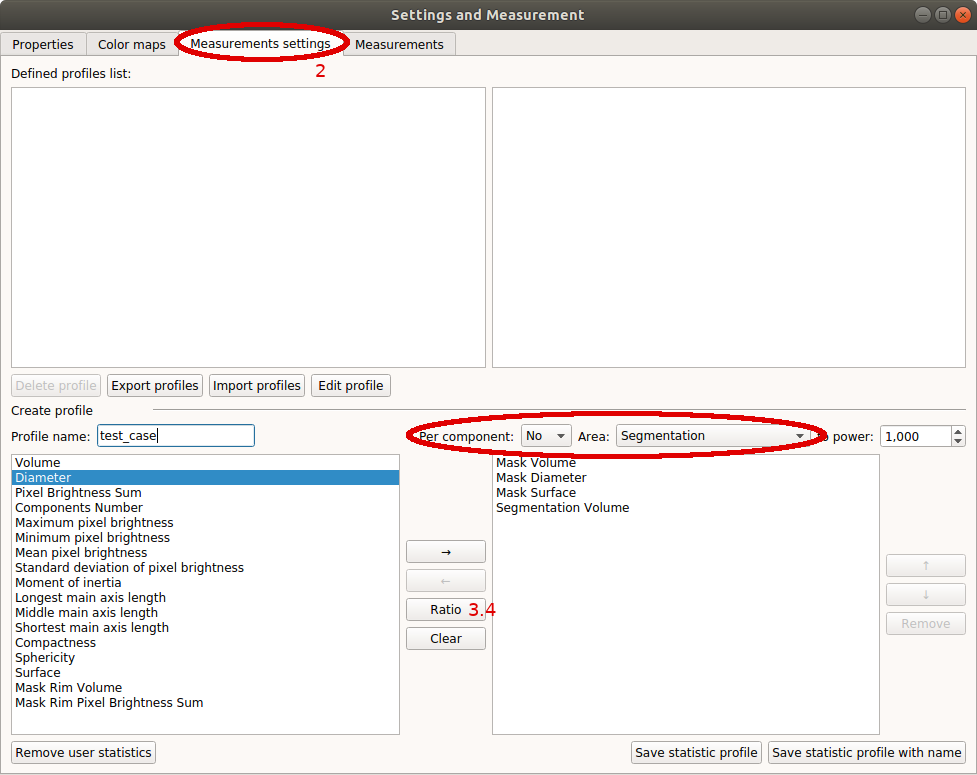
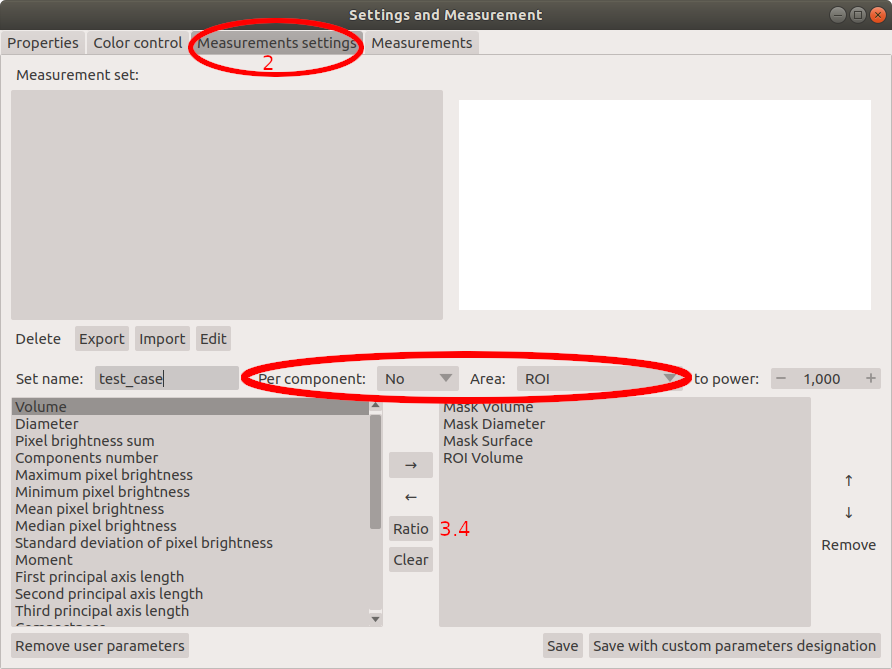
update tutorials to screenshots from last version

diff --git a/package/PartSeg/segmentation_analysis/image_view.py b/package/PartSeg/segmentation_analysis/image_view.py
@@ -29,6 +29,7 @@ class ResultImageView(ImageView):
         self.opacity.setValue(self.image_state.opacity)
         self.opacity.setSingleStep(0.1)
         self.opacity.valueChanged.connect(self.image_state.set_opacity)
+        self.opacity.setMinimumWidth(500)
         self.label1 = QLabel("Borders:")
         self.label2 = QLabel("Opacity:")
         self.btn_layout.insertWidget(3, self.label1)

diff --git a/package/PartSeg/common_gui/napari_image_view.py b/package/PartSeg/common_gui/napari_image_view.py
@@ -303,7 +303,7 @@ class ImageView(QWidget):
 
     def mask_opacity(self) -> float:
         """Get mask opacity"""
-        return self.settings.get_from_profile("mask_presentation   _opacity", 1)
+        return self.settings.get_from_profile("mask_presentation_opacity", 1)
 
     def mask_color(self) -> Colormap:
         """Get mask marking color"""

diff --git a/tutorials/tutorial-chromosome-1/tutorial-chromosome1_16.md b/tutorials/tutorial-chromosome-1/tutorial-chromosome1_16.md
@@ -23,10 +23,10 @@ Firstly segmentation of nuclei is performed based on the DNA signal. Segmented n
 
 1.  Open PartSeg
 
-2.  Select "Mask Segmentation"
+2.  Select "Mask Segmentation"  
     ![launcher GUI](./images/launcher.png)
 
-3.  Load image
+3.  Load image  
     ![mask segmentation](./images/mask_segmentation.png)
 
 4.  Ensure that threshold segmentation method is selected
@@ -59,7 +59,7 @@ Firstly segmentation of nuclei is performed based on the DNA signal. Segmented n
     (`stack1_component5.tif`, `stack1_component6.tif`, `stack1_component7.tif`, ...)
     (`stack1_component5_mask.tif`, `stack1_component6_mask.tif`, `stack1_component7_mask.tif`, ...)
 
-9.  The whole segmentation can be saved separately (**Save segmentation** option) and later can be loaded using **Load segmentation** menu.
+9.  The whole segmentation can be saved separately (**Save segmentation** option) and later can be loaded using **Load segmentation** menu.  
     ![mask segmentation](./images/mask_segmentation.png)
 
 #### Segmentation of chromosome 1 territories
@@ -68,13 +68,13 @@ In order to qauntify features of chromosome 1 territory segmentation of FISH spe
 
 1.  Open PartSeg
 
-2.  Select **Segmentation Analysis**
+2.  Select **Segmentation Analysis**  
     ![launcher GUI](./images/launcher.png)
 
 3.  Load data:
     1.  Select **Open** button or press **ctrl+O** (cmd+O on mac)
 
-    2.  Select **image with mask**
+    2.  Select **image with mask**  
         ![open dialog](images/open_file.png)
 
     3.  Select image to load: `stack1_component5.tif`
@@ -83,7 +83,7 @@ In order to qauntify features of chromosome 1 territory segmentation of FISH spe
 
     You can also simply drag and drop both files on the main window.
 
-4.  Enable **Synchronise view** option
+4.  Enable **Synchronise view** option  
     ![main window for segmentation](images/main_window_segmentation.png)
 
 5.  Disable channel 1 (DNA staining) on both windows
@@ -91,22 +91,22 @@ In order to qauntify features of chromosome 1 territory segmentation of FISH spe
 6.  Enable **Mask** option on the left panel
 
 7.  Set algorithm parameters to:
-    1.  Use Lower Threshold Flow
+    1.  Use Lower Threshold with watershed
+    
+    2.  Channel: 2
+    
+    3.  Filter: Gauss with type Layer and radius 1
 
-    2.  Threshold type: Base/Core
+    4.  Threshold type: Base/Core
 
-    3.  Core Threshold: Manual, threshold value: 19500
+    5.  Core Threshold: Manual, threshold value: 19500
 
-    4.  Base Threshold: Manual, threshold value: 11500
+    6.  Base Threshold: Manual, threshold value: 11500
 
-    5.  Flow type: MultiScale Opening Sprawl
+    7.  Flow type: MultiScale Opening Sprawl
 
-    6.  Channel: 2
-
-    7.  Minimum size (px): 800
-
-    8.  Filter: Gauss with type Layer and radius 1
-
+    8.  Minimum core size (px): 800
+  
     9.  Connect only sides: Not checked
         This option limits segmentation to pixels connected side by side.
 
@@ -126,10 +126,10 @@ In this example we show how to measure volume, diameter and surface of a whole n
 (these parameters are calculated based on a set threshold).
 In addition we calculated ratio of chromosome 1 to nucleus volume to show how big is chromosome 1 in relation to the whole nucleus.
 
-1.  Open **Settings and Measurement** option
+1.  Open **Settings and Measurement** option  
     ![PartSeg GUI](images/main_window.png)
 
-2.  Select *Measurements settings**
+2.  Select *Measurements settings**  
     ![Advanced window](images/advanced_set_measure.png)
 
 3.  Prepare profile of parameters for chromosome 1 territories analysis.
@@ -161,14 +161,14 @@ At the end established settings profile is used to measure features of nuclei an
 1.  In **Settings and Measurement** menu check for **Properties**. The pixel size and an voxel depth should be the same as the original image.
     The rest of measurements depends on these properties, so make sure they are correct.
 
-2.  Next select **Measurements** to get a preview on actual numbers.
+2.  Next select **Measurements** to get a preview on actual numbers.  
     ![PartSeg GUI](images/main_window.png)
     Select channel 1 and profile "test_case" created in the last paragraph. Enable **Horizontal view** and select units of choice. Execute the analysis with **Calculate and append results** button.
     Resulting table can be copied to any text, or spreadsheet file using **copy to clipboard** option.
 
 3.  Next, open file `stack1_component1.tif` and load mask file `stack1_component1_mask.tif` from `stack1_components` folder.
     Without changing any parameters select **Execute** in main window and **Calculate and append results** once more.
-    Second line of results shows the same set of measurements for the second nucleus. Measurements are shown in selected units.
+    Second line of results shows the same set of measurements for the second nucleus. Measurements are shown in selected units.  
     ![PartSeg GUI](images/main_window_analysis2.png)
 
 ## Appendix
